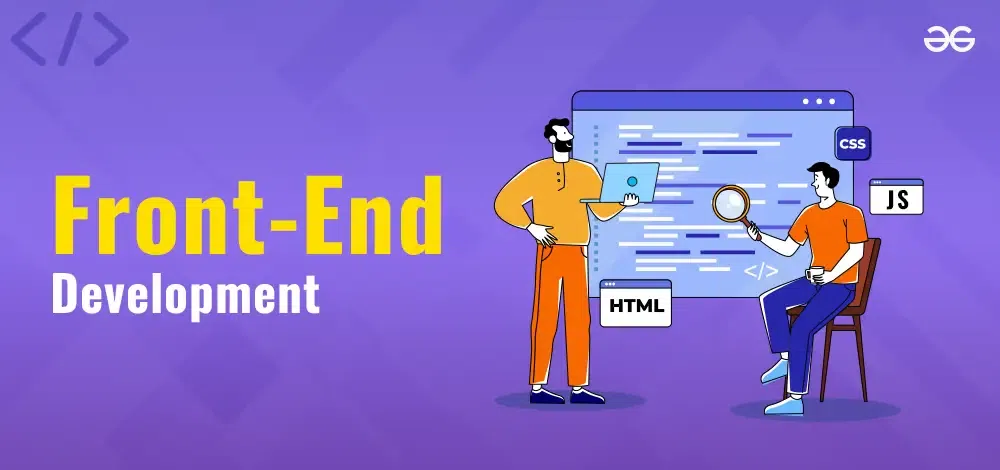
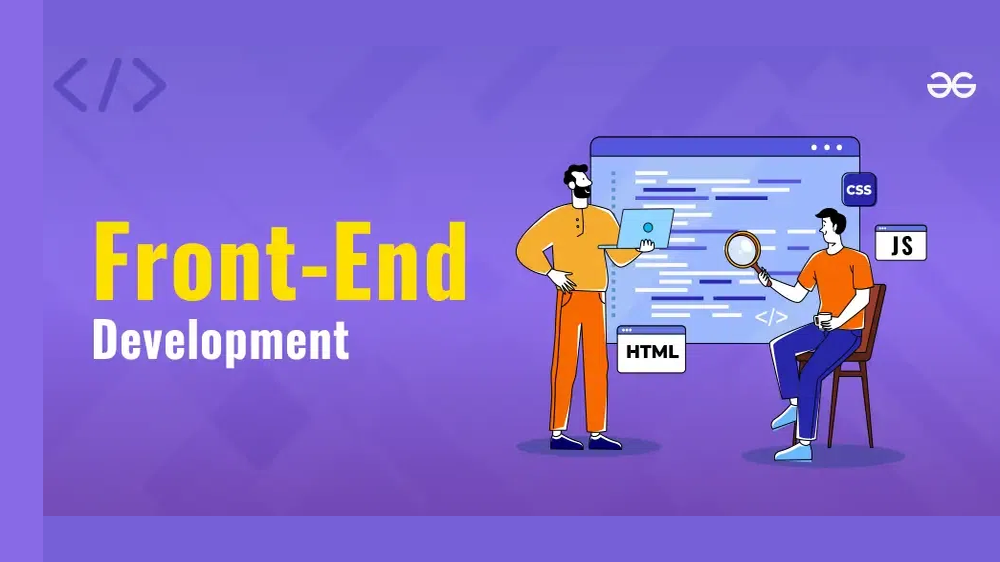
Pad bootcamp_frontend.png to 16:9 aspect ratio with safe margins to prevent cropping text and bump cache version to v=74

diff --git a/diplomas.html b/diplomas.html
@@ -5,7 +5,7 @@
     <meta name="viewport" content="width=device-width, initial-scale=1.0">
     <title>Professional Diplomas - NextGen Institute</title>
     <meta name="description" content="Enroll in NextGen Institute's professional diplomas in AI and Data Analytics. Comprehensive 5-month programs with industry certification and co-op placement.">
-        <link rel="stylesheet" href="styles.css?v=73">
+        <link rel="stylesheet" href="styles.css?v=74">
 
 </head>
 <body>
@@ -58,7 +58,7 @@
                 <!-- Card 1: AI & ML Diploma -->
                 <div class="card glass-panel" id="diplomaCard1" style="padding: 0; overflow: hidden;">
                     <div class="card-image-wrap">
-                        <img src="assets/diploma_ai_ml.png?v=73" alt="AI & Machine Learning Diploma">
+                        <img src="assets/diploma_ai_ml.png?v=74" alt="AI & Machine Learning Diploma">
                     </div>
                     <div class="card-body" style="padding: 28px 24px; display: flex; flex-direction: column; flex-grow: 1;">
                         <div class="card-tags">
@@ -80,7 +80,7 @@
                 <!-- Card 2: Data Analytics Diploma -->
                 <div class="card glass-panel" id="diplomaCard2" style="padding: 0; overflow: hidden;">
                     <div class="card-image-wrap">
-                        <img src="assets/diploma_data_analytics.png?v=73" alt="Data Analytics Diploma">
+                        <img src="assets/diploma_data_analytics.png?v=74" alt="Data Analytics Diploma">
                     </div>
                     <div class="card-body" style="padding: 28px 24px; display: flex; flex-direction: column; flex-grow: 1;">
                         <div class="card-tags">
@@ -102,7 +102,7 @@
                 <!-- Card 3: Flutter Developer Diploma -->
                 <div class="card glass-panel" id="diplomaCard3" style="padding: 0; overflow: hidden;">
                     <div class="card-image-wrap">
-                        <img src="assets/diploma_flutter.png?v=73" alt="Flutter Developer Diploma">
+                        <img src="assets/diploma_flutter.png?v=74" alt="Flutter Developer Diploma">
                     </div>
                     <div class="card-body" style="padding: 28px 24px; display: flex; flex-direction: column; flex-grow: 1;">
                         <div class="card-tags">
@@ -124,7 +124,7 @@
                 <!-- Card 4: Front-End Web Developer Diploma -->
                 <div class="card glass-panel" id="diplomaCard4" style="padding: 0; overflow: hidden;">
                     <div class="card-image-wrap">
-                        <img src="assets/diploma_frontend.png?v=73" alt="Front-End Web Developer Diploma">
+                        <img src="assets/diploma_frontend.png?v=74" alt="Front-End Web Developer Diploma">
                     </div>
                     <div class="card-body" style="padding: 28px 24px; display: flex; flex-direction: column; flex-grow: 1;">
                         <div class="card-tags">
@@ -210,8 +210,8 @@
         </div>
     </footer>
 
-    <script src="main.js?v=73"></script>
-    <script src="lang.js?v=73"></script>
+    <script src="main.js?v=74"></script>
+    <script src="lang.js?v=74"></script>
 
     <!-- Registration Modal -->
     <div class="modal-overlay" id="registrationModal">

diff --git a/bootcamps.html b/bootcamps.html
@@ -5,7 +5,7 @@
     <meta name="viewport" content="width=device-width, initial-scale=1.0">
     <title>Summer Bootcamps - NextGen Institute</title>
     <meta name="description" content="View upcoming summer bootcamps in Data Analytics and AI/ML at NextGen Institute. Complete course schedule from July 1, 2026 to October 1, 2026.">
-        <link rel="stylesheet" href="styles.css?v=73">
+        <link rel="stylesheet" href="styles.css?v=74">
 
 </head>
 <body>
@@ -58,7 +58,7 @@
                 <!-- Card 1: AI & ML Bootcamp -->
                 <div class="card glass-panel" id="bootCard1" style="padding: 0; overflow: hidden;">
                     <div class="card-image-wrap">
-                        <img src="assets/bootcamp_ai_ml.png?v=73" alt="AI & Machine Learning Bootcamp">
+                        <img src="assets/bootcamp_ai_ml.png?v=74" alt="AI & Machine Learning Bootcamp">
                     </div>
                     <div class="card-body" style="padding: 28px 24px; display: flex; flex-direction: column; flex-grow: 1;">
                         <div class="card-tags">
@@ -80,7 +80,7 @@
                 <!-- Card 2: Data Analytics Bootcamp -->
                 <div class="card glass-panel" id="bootCard2" style="padding: 0; overflow: hidden;">
                     <div class="card-image-wrap">
-                        <img src="assets/bootcamp_data_analytics.png?v=73" alt="Data Analytics Bootcamp">
+                        <img src="assets/bootcamp_data_analytics.png?v=74" alt="Data Analytics Bootcamp">
                     </div>
                     <div class="card-body" style="padding: 28px 24px; display: flex; flex-direction: column; flex-grow: 1;">
                         <div class="card-tags">
@@ -102,7 +102,7 @@
                 <!-- Card 3: Flutter Developer Bootcamp -->
                 <div class="card glass-panel" id="bootCard3" style="padding: 0; overflow: hidden;">
                     <div class="card-image-wrap">
-                        <img src="assets/bootcamp_flutter.png?v=73" alt="Flutter Developer Bootcamp">
+                        <img src="assets/bootcamp_flutter.png?v=74" alt="Flutter Developer Bootcamp">
                     </div>
                     <div class="card-body" style="padding: 28px 24px; display: flex; flex-direction: column; flex-grow: 1;">
                         <div class="card-tags">
@@ -124,7 +124,7 @@
                 <!-- Card 4: Front-End Web Developer Bootcamp -->
                 <div class="card glass-panel" id="bootCard4" style="padding: 0; overflow: hidden;">
                     <div class="card-image-wrap">
-                        <img src="assets/bootcamp_frontend.png?v=73" alt="Front-End Web Developer Bootcamp">
+                        <img src="assets/bootcamp_frontend.png?v=74" alt="Front-End Web Developer Bootcamp">
                     </div>
                     <div class="card-body" style="padding: 28px 24px; display: flex; flex-direction: column; flex-grow: 1;">
                         <div class="card-tags">
@@ -212,8 +212,8 @@
         </div>
     </footer>
 
-    <script src="main.js?v=73"></script>
-    <script src="lang.js?v=73"></script>
+    <script src="main.js?v=74"></script>
+    <script src="lang.js?v=74"></script>
 
     <!-- Registration Modal -->
     <div class="modal-overlay" id="registrationModal">

diff --git a/index.html b/index.html
@@ -5,7 +5,7 @@
     <meta name="viewport" content="width=device-width, initial-scale=1.0">
     <title>NextGen Institute - Empowering Tech Creators in AI & Analytics</title>
     <meta name="description" content="NextGen Institute empowers the next generation of tech creators in AI, Machine Learning, and Data Analytics through hands-on bootcamps and premier internship opportunities.">
-        <link rel="stylesheet" href="styles.css?v=73">
+        <link rel="stylesheet" href="styles.css?v=74">
 
 </head>
 <body>
@@ -267,8 +267,8 @@
         </div>
     </footer>
 
-    <script src="main.js?v=73"></script>
-    <script src="lang.js?v=73"></script>
+    <script src="main.js?v=74"></script>
+    <script src="lang.js?v=74"></script>
     <button class="back-to-top" id="backToTop" aria-label="Back to Top">↑</button>
     <!-- Explore Programs Modal -->
     <div class="modal-overlay" id="exploreModal">

diff --git a/contact.html b/contact.html
@@ -5,7 +5,7 @@
     <meta name="viewport" content="width=device-width, initial-scale=1.0">
     <title>Contact Us - NextGen Institute</title>
     <meta name="description" content="Reach out to the NextGen Institute team for inquiries about internships, bootcamps, and business partnerships. We respond within 24 hours.">
-        <link rel="stylesheet" href="styles.css?v=73">
+        <link rel="stylesheet" href="styles.css?v=74">
 
 </head>
 <body>
@@ -154,8 +154,8 @@
         </div>
     </footer>
 
-    <script src="main.js?v=73"></script>
-    <script src="lang.js?v=73"></script>
+    <script src="main.js?v=74"></script>
+    <script src="lang.js?v=74"></script>
     <script>
         // Check URL parameters on load to auto-fill forms
         document.addEventListener('DOMContentLoaded', () => {

diff --git a/about.html b/about.html
@@ -5,7 +5,7 @@
     <meta name="viewport" content="width=device-width, initial-scale=1.0">
     <title>About Us - NextGen Institute</title>
     <meta name="description" content="Discover the vision and mission of NextGen Institute, and meet our program leadership driving educational excellence in technology fields.">
-        <link rel="stylesheet" href="styles.css?v=73">
+        <link rel="stylesheet" href="styles.css?v=74">
 
 </head>
 <body>
@@ -122,8 +122,8 @@
         </div>
     </footer>
 
-    <script src="main.js?v=73"></script>
-    <script src="lang.js?v=73"></script>
+    <script src="main.js?v=74"></script>
+    <script src="lang.js?v=74"></script>
     <button class="back-to-top" id="backToTop" aria-label="Back to Top">↑</button>
 </body>
 </html>

diff --git a/internships.html b/internships.html
@@ -5,7 +5,7 @@
     <meta name="viewport" content="width=device-width, initial-scale=1.0">
     <title>Internship Opportunities - NextGen Institute</title>
     <meta name="description" content="Explore current internship opportunities in AI, Machine Learning, and Data Analytics at NextGen Institute. Gain real-world project experience.">
-        <link rel="stylesheet" href="styles.css?v=73">
+        <link rel="stylesheet" href="styles.css?v=74">
 
 </head>
 <body>
@@ -214,8 +214,8 @@
         </div>
     </footer>
 
-    <script src="main.js?v=73"></script>
-    <script src="lang.js?v=73"></script>
+    <script src="main.js?v=74"></script>
+    <script src="lang.js?v=74"></script>
 
 
 
